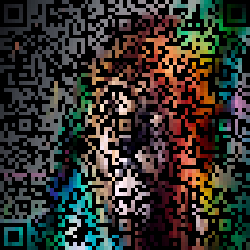
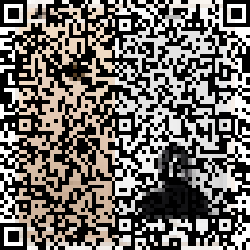
new pic

diff --git a/test.py b/test.py
@@ -4,7 +4,7 @@ qr = Qrcode('https://blog.aikeji.online/2018/10/16/%E4%BA%8C%E7%BB%B4%E7%A0%81%E
 qr.paint('pic/test.jpg').resize(250).generate('testpic/test0.png')
 
 qr = Qrcode('https://blog.aikeji.online/2018/10/16/%E4%BA%8C%E7%BB%B4%E7%A0%81%E7%94%9F%E6%88%90%E5%8E%9F%E7%90%86%E5%8F%8A%E7%BC%96%E7%A0%81%E5%AE%9E%E7%8E%B0/', 'H')
-qr.paint('pic/test.jpg', 1).resize(250).generate('testpic/test1.png')
+qr.paint('pic/testbg.jpg', 1).resize(250).generate('testpic/test1.png')
 
 qr = Qrcode('https://blog.aikeji.online/2018/10/16/%E4%BA%8C%E7%BB%B4%E7%A0%81%E7%94%9F%E6%88%90%E5%8E%9F%E7%90%86%E5%8F%8A%E7%BC%96%E7%A0%81%E5%AE%9E%E7%8E%B0/', 'H')
 qr.colour((199, 29, 69)).resize(250).generate('testpic/test2.png')
